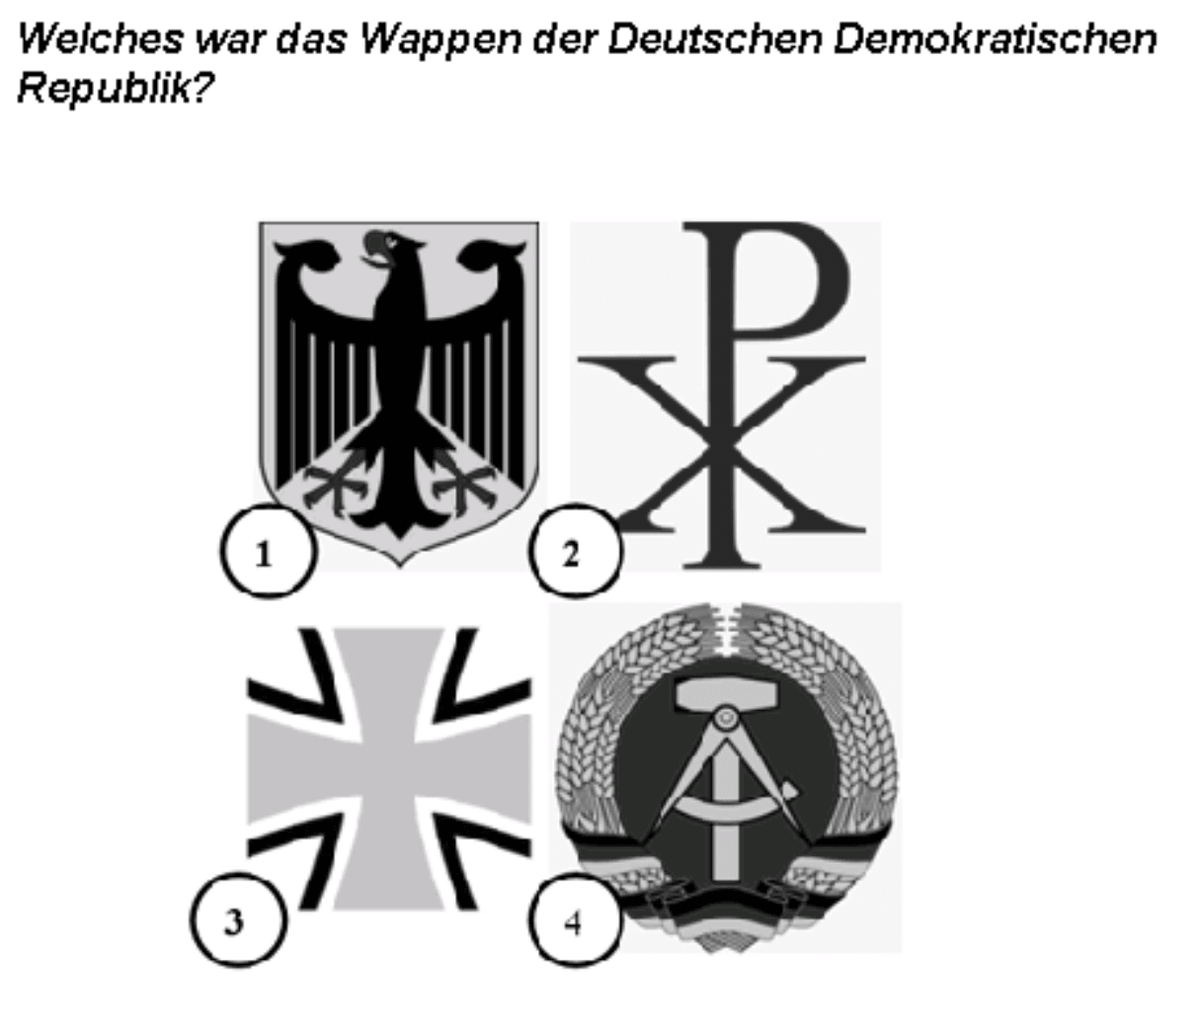
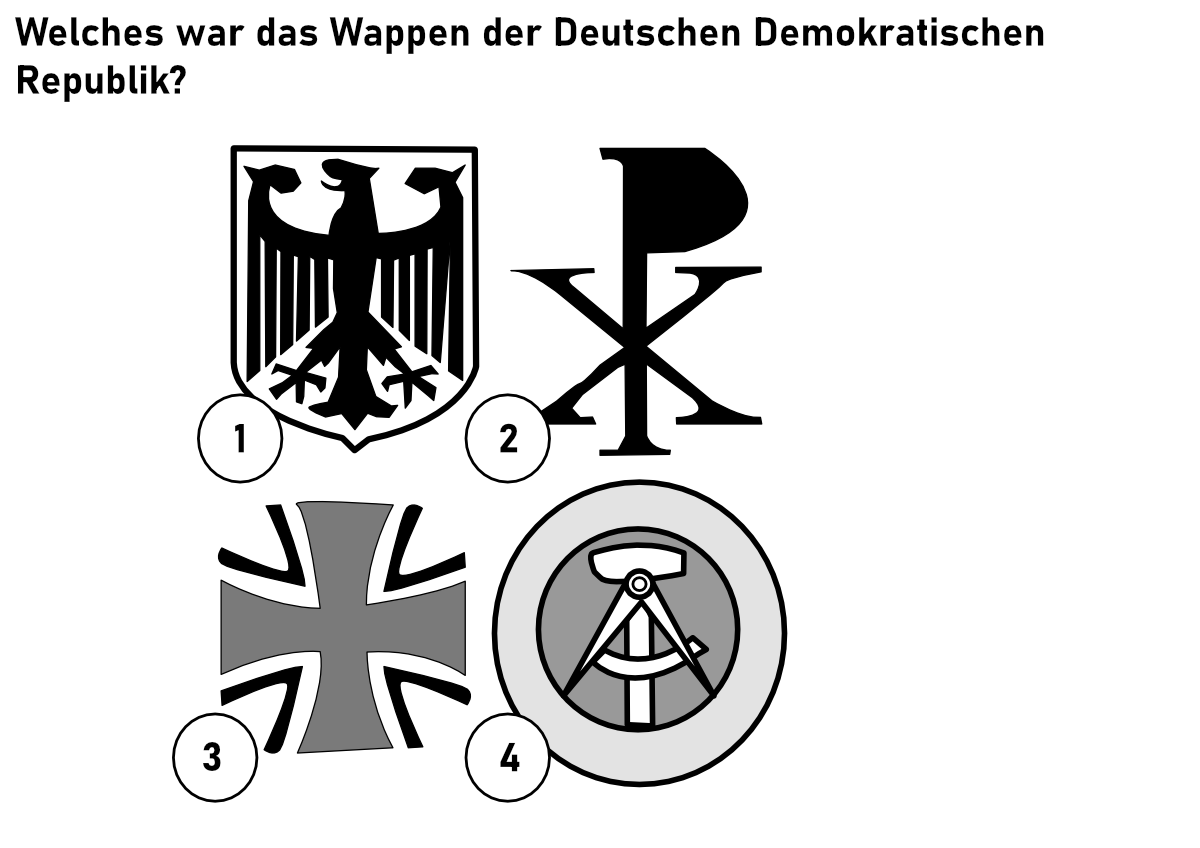
Replace B209 image with corrected redraw

Changed region(s): [[0.1233, 0.1533, 0.7708, 0.9811], [0.0, 0.0, 0.9867, 0.1226]]

diff --git a/README.md b/README.md
@@ -38,7 +38,7 @@ No web server is required; `data/questions.js`, `data/vocabulary.js` and `data/i
[1 lines of base64/hex data omitted]
   <https://www.bamf.de/SharedDocs/Anlagen/DE/Integration/Einbuergerung/gesamtfragenkatalog-lebenindeutschland.html?nn=284310>
 - **Answers, English translations, explanations and images**: [abdullahbutt/leben-in-deutschland-test](https://github.com/abdullahbutt/leben-in-deutschland-test), version 2026-10-28. **The German question and option wording is taken verbatim from the official BAMF PDF**; the dataset supplies the answer key, English translations, explanations and images. The translations and explanations are licensed under **CC BY-NC 4.0** (attribution, non-commercial use). `data/overrides.json` contains manual corrections for the few items where the dataset described a different paraphrase (e.g. B232, B247, HB02, SN07).
-- **B021, B055, B070, B130, B176, B181 and B187 images**: `data/images/21.png`, `data/images/55.png`, `data/images/70.png`, `data/images/130.png`, `data/images/176.png`, `data/images/181.png` and `data/images/187.png` are redrawn replacements added for this project; the remaining images come from the dataset.
+- **B021, B055, B070, B130, B176, B181, B187 and B209 images**: `data/images/21.png`, `data/images/55.png`, `data/images/70.png`, `data/images/130.png`, `data/images/176.png`, `data/images/181.png`, `data/images/187.png` and `data/images/209.png` are redrawn replacements added for this project; the remaining images come from the dataset.
 - This is an independent learning app, not an official BAMF product. Use is intended for personal, non-commercial exam preparation.
 
 ## Project layout
